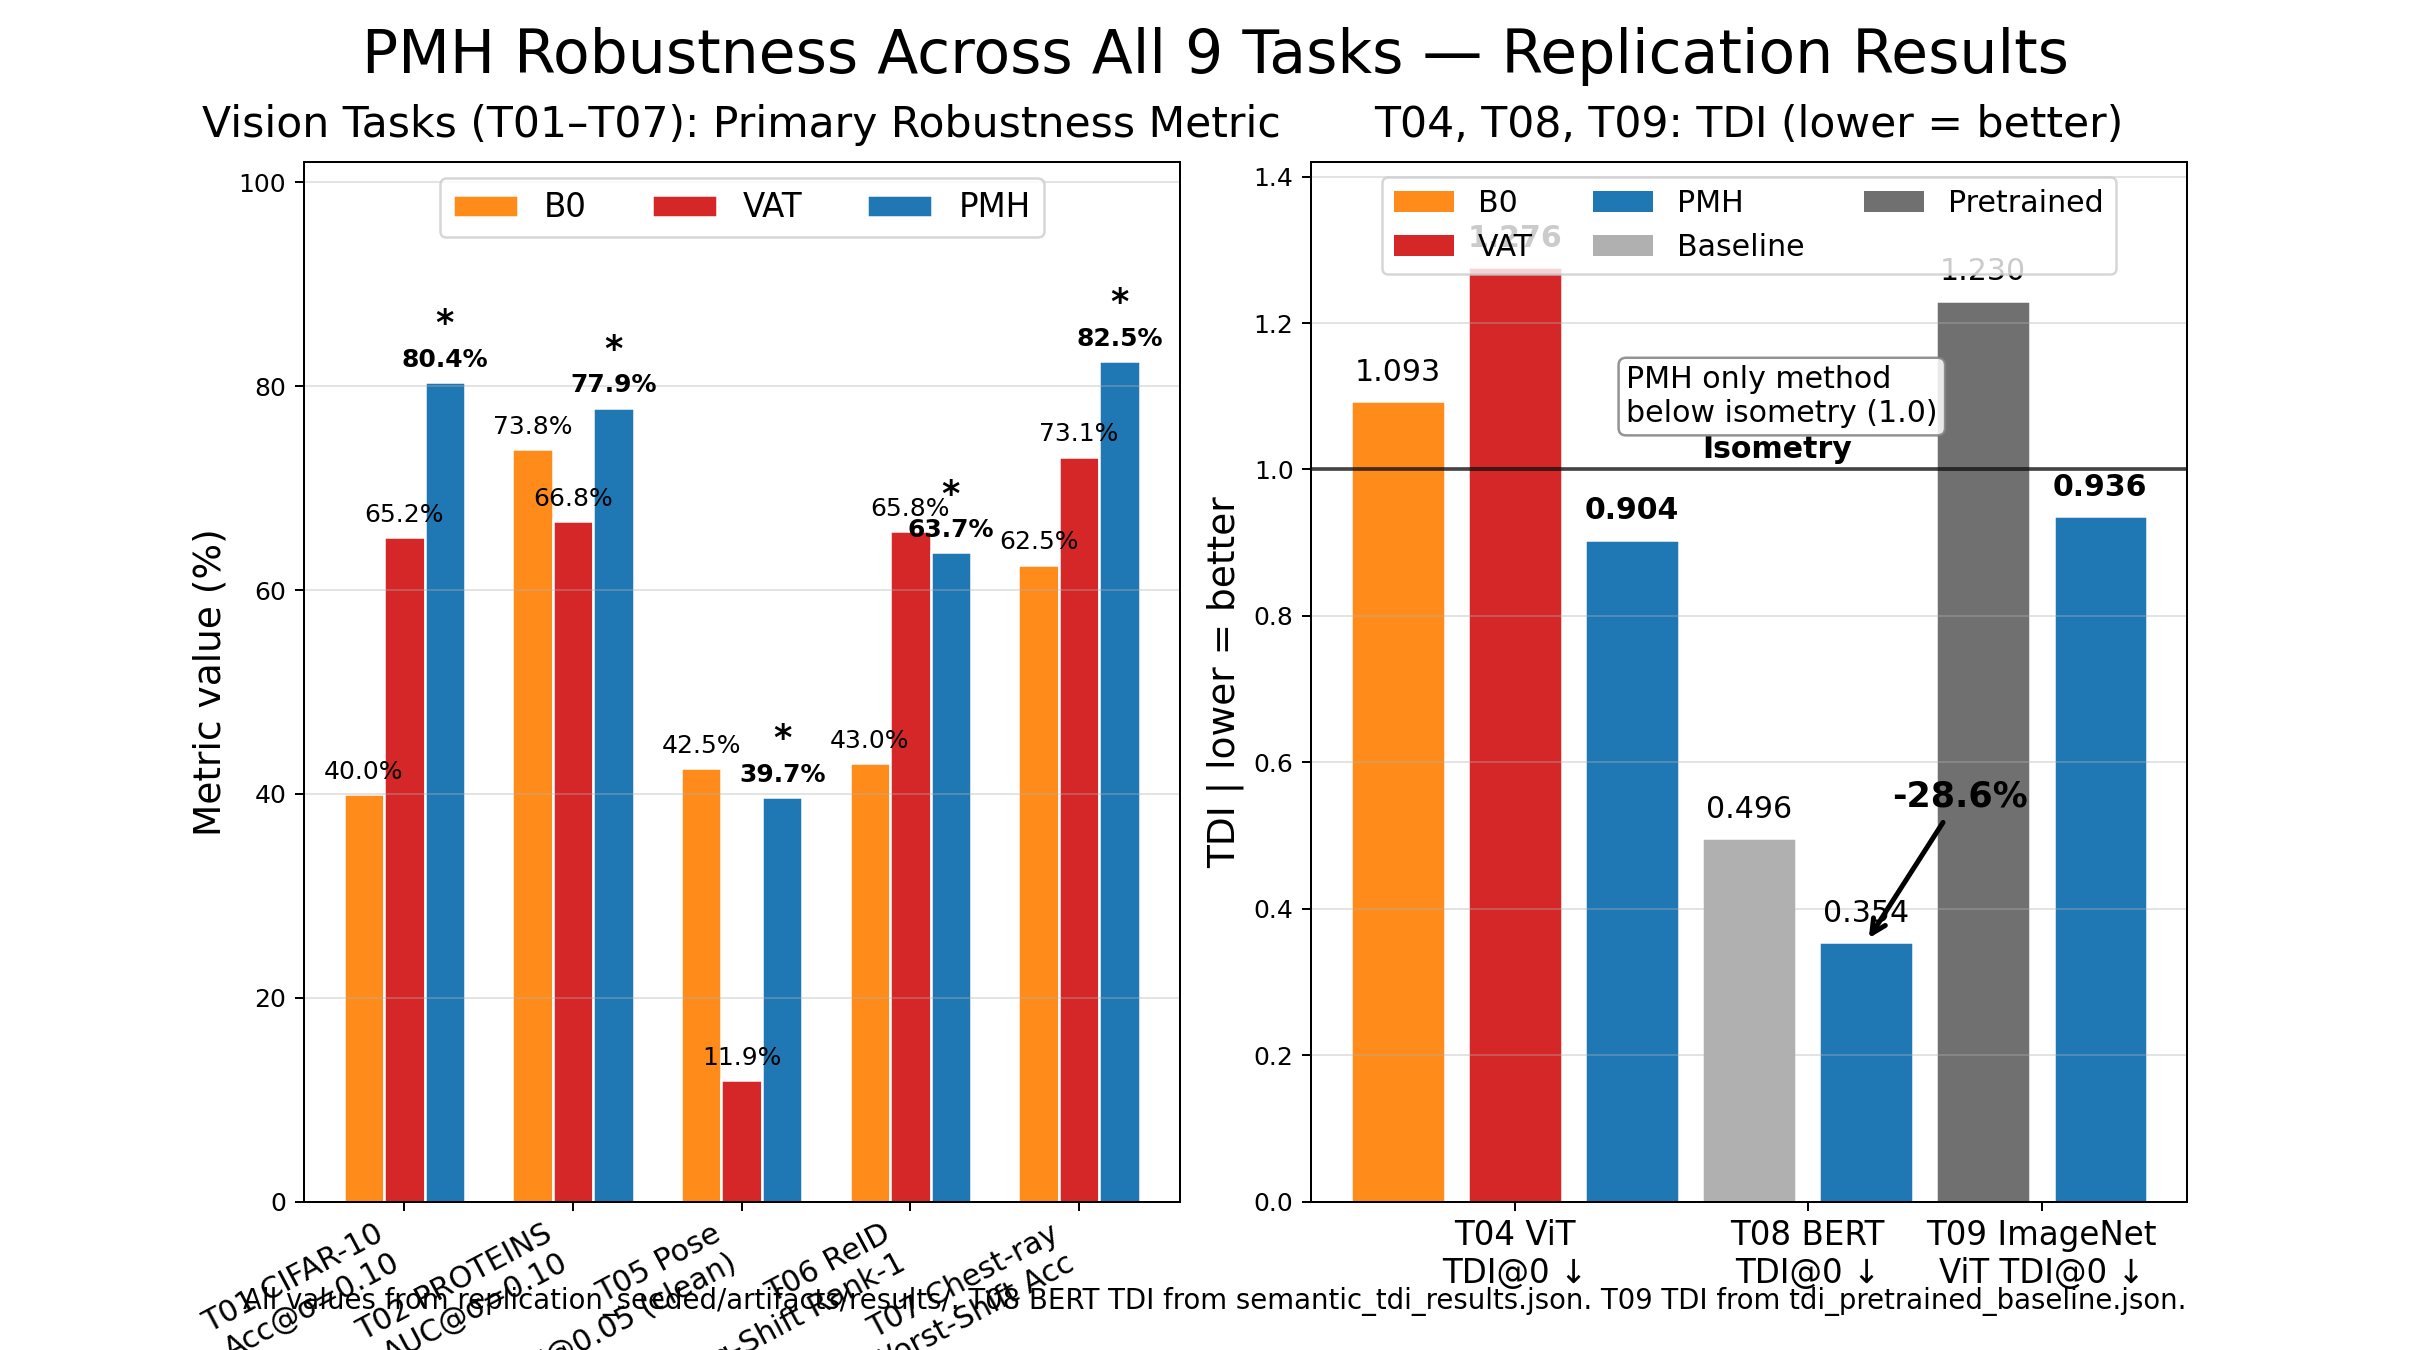
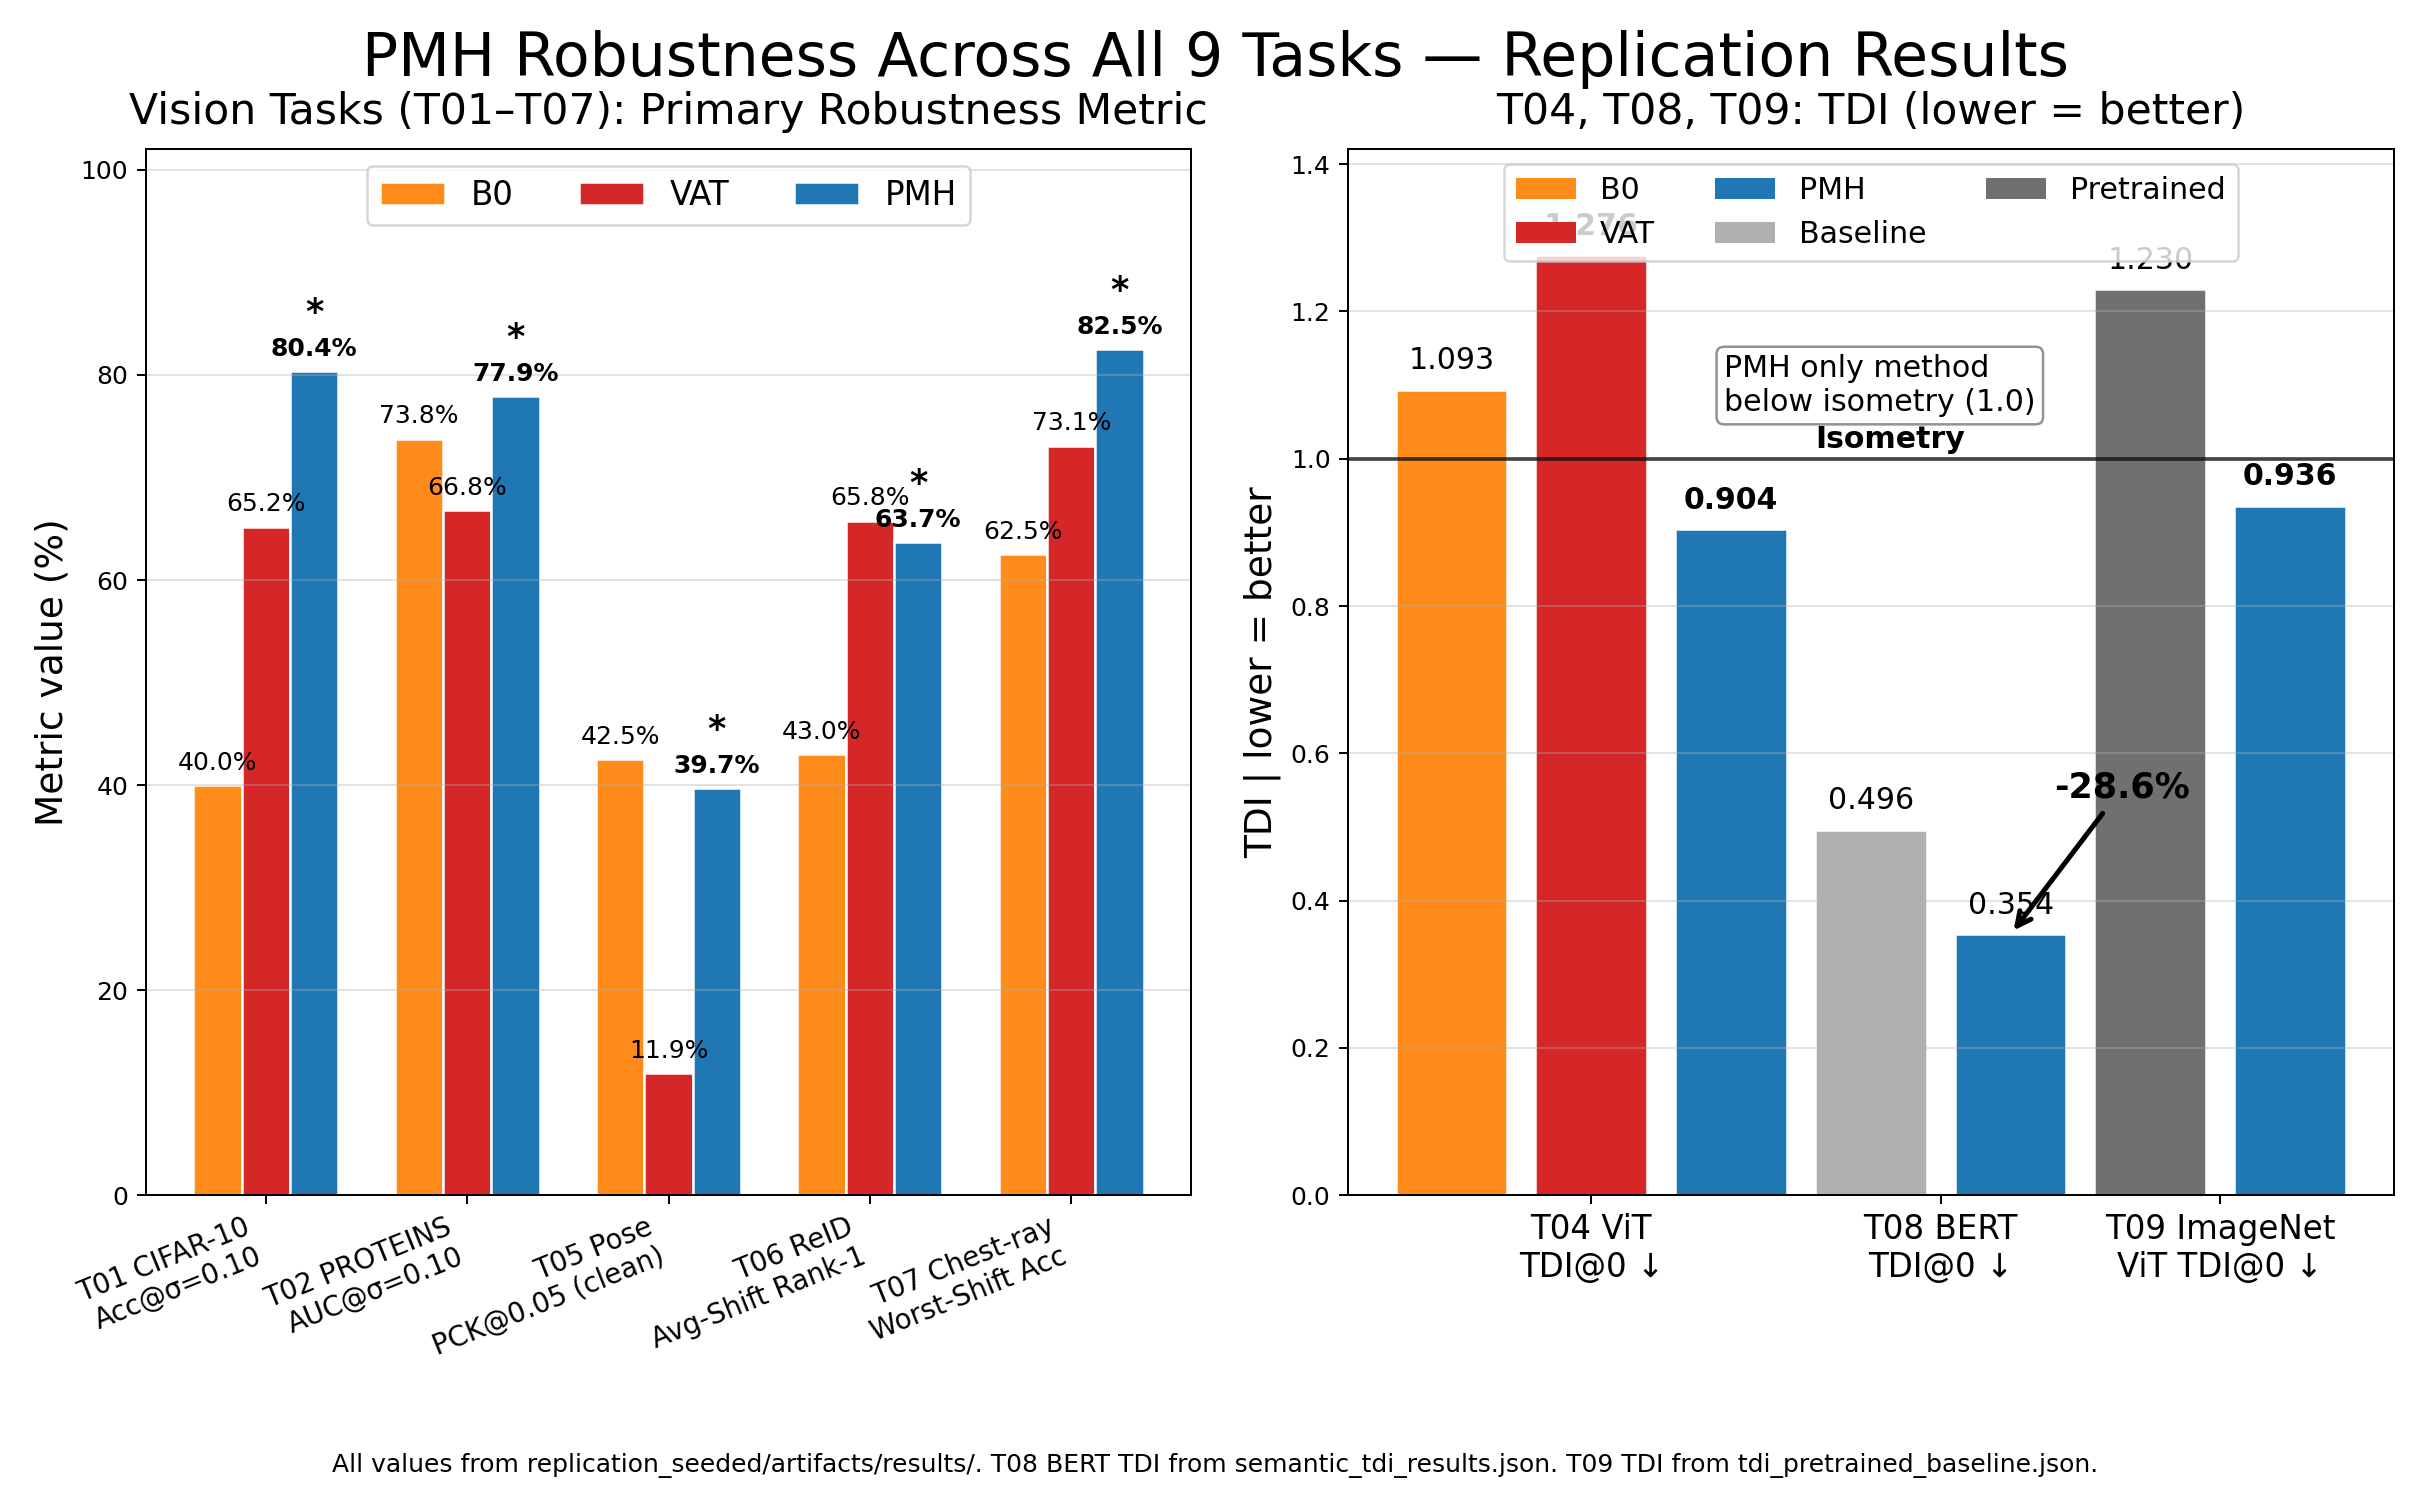
Fix README math formatting and chart layout overlap
Use GitHub-safe inline math for Proposition 5, remove the plain-text fallback line, and regenerate the cross-task figure with adjusted spacing to prevent label/footer overlap.

Made-with: Cursor

diff --git a/replication_seeded/paper_figures/make_cross_task_results.py b/replication_seeded/paper_figures/make_cross_task_results.py
@@ -31,7 +31,7 @@ def make_figure(out_path: str) -> None:
         "Pretrained": "#707070",  # dark gray
     }
 
-    fig, (ax1, ax2) = plt.subplots(1, 2, figsize=(13.5, 7.5), gridspec_kw={"wspace": 0.15})
+    fig, (ax1, ax2) = plt.subplots(1, 2, figsize=(13.5, 8.3), gridspec_kw={"wspace": 0.15})
     fig.suptitle("PMH Robustness Across All 9 Tasks — Replication Results", fontsize=24, y=0.98)
 
     # Left panel plotting
@@ -53,7 +53,7 @@ def make_figure(out_path: str) -> None:
     ax1.set_ylim(0, 102)
     ax1.set_ylabel("Metric value (%)", fontsize=15)
     ax1.set_xticks(x)
-    ax1.set_xticklabels(vision_labels, rotation=28, ha="right", fontsize=12)
+    ax1.set_xticklabels(vision_labels, rotation=22, ha="right", fontsize=11)
     ax1.grid(axis="y", alpha=0.35)
     ax1.legend(loc="upper center", ncol=3, fontsize=13, frameon=True)
 
@@ -94,13 +94,14 @@ def make_figure(out_path: str) -> None:
 
     fig.text(
         0.5,
-        0.03,
+        0.015,
         "All values from replication_seeded/artifacts/results/. T08 BERT TDI from semantic_tdi_results.json. "
         "T09 TDI from tdi_pretrained_baseline.json.",
         ha="center",
-        fontsize=11,
+        fontsize=10,
     )
-    plt.tight_layout(rect=[0.02, 0.08, 0.98, 0.95])
+    # Explicit spacing avoids tight_layout clipping/overlap with rotated tick labels and footer.
+    fig.subplots_adjust(left=0.06, right=0.985, top=0.90, bottom=0.20, wspace=0.15)
 
     os.makedirs(os.path.dirname(out_path), exist_ok=True)
     fig.savefig(out_path, dpi=180)

diff --git a/README.md b/README.md
@@ -88,15 +88,13 @@ This holds for *any* architecture, *any* dataset size, *any* proper scoring rule
 
 **Corollary 4:** PGD adversarial training cannot close the blind spot and will in general *increase* clean-input TDI relative to ERM when Jacobian anisotropy increases — exactly what the experiments confirm.
 
-**Proposition 5 (Uniqueness of Gaussian):** Among all isotropic perturbation distributions \(p(\delta)\), the isotropic Gaussian is the *unique* distribution satisfying:
+**Proposition 5 (Uniqueness of Gaussian):** Among all isotropic perturbation distributions $p(\delta)$, the isotropic Gaussian is the *unique* distribution satisfying:
 
 $$
 \mathbb{E}_{\delta}\!\left[\|\phi(x)-\phi(x+\delta)\|^2\right] \propto \|J_{\phi}\|_F^2
 $$
 
 uniformly across all input directions.
-
-Plain-text fallback: `E_delta[ ||phi(x)-phi(x+delta)||^2 ] is proportional to ||J_phi||_F^2` for every direction only under isotropic Gaussian noise.
 
 ---
 
